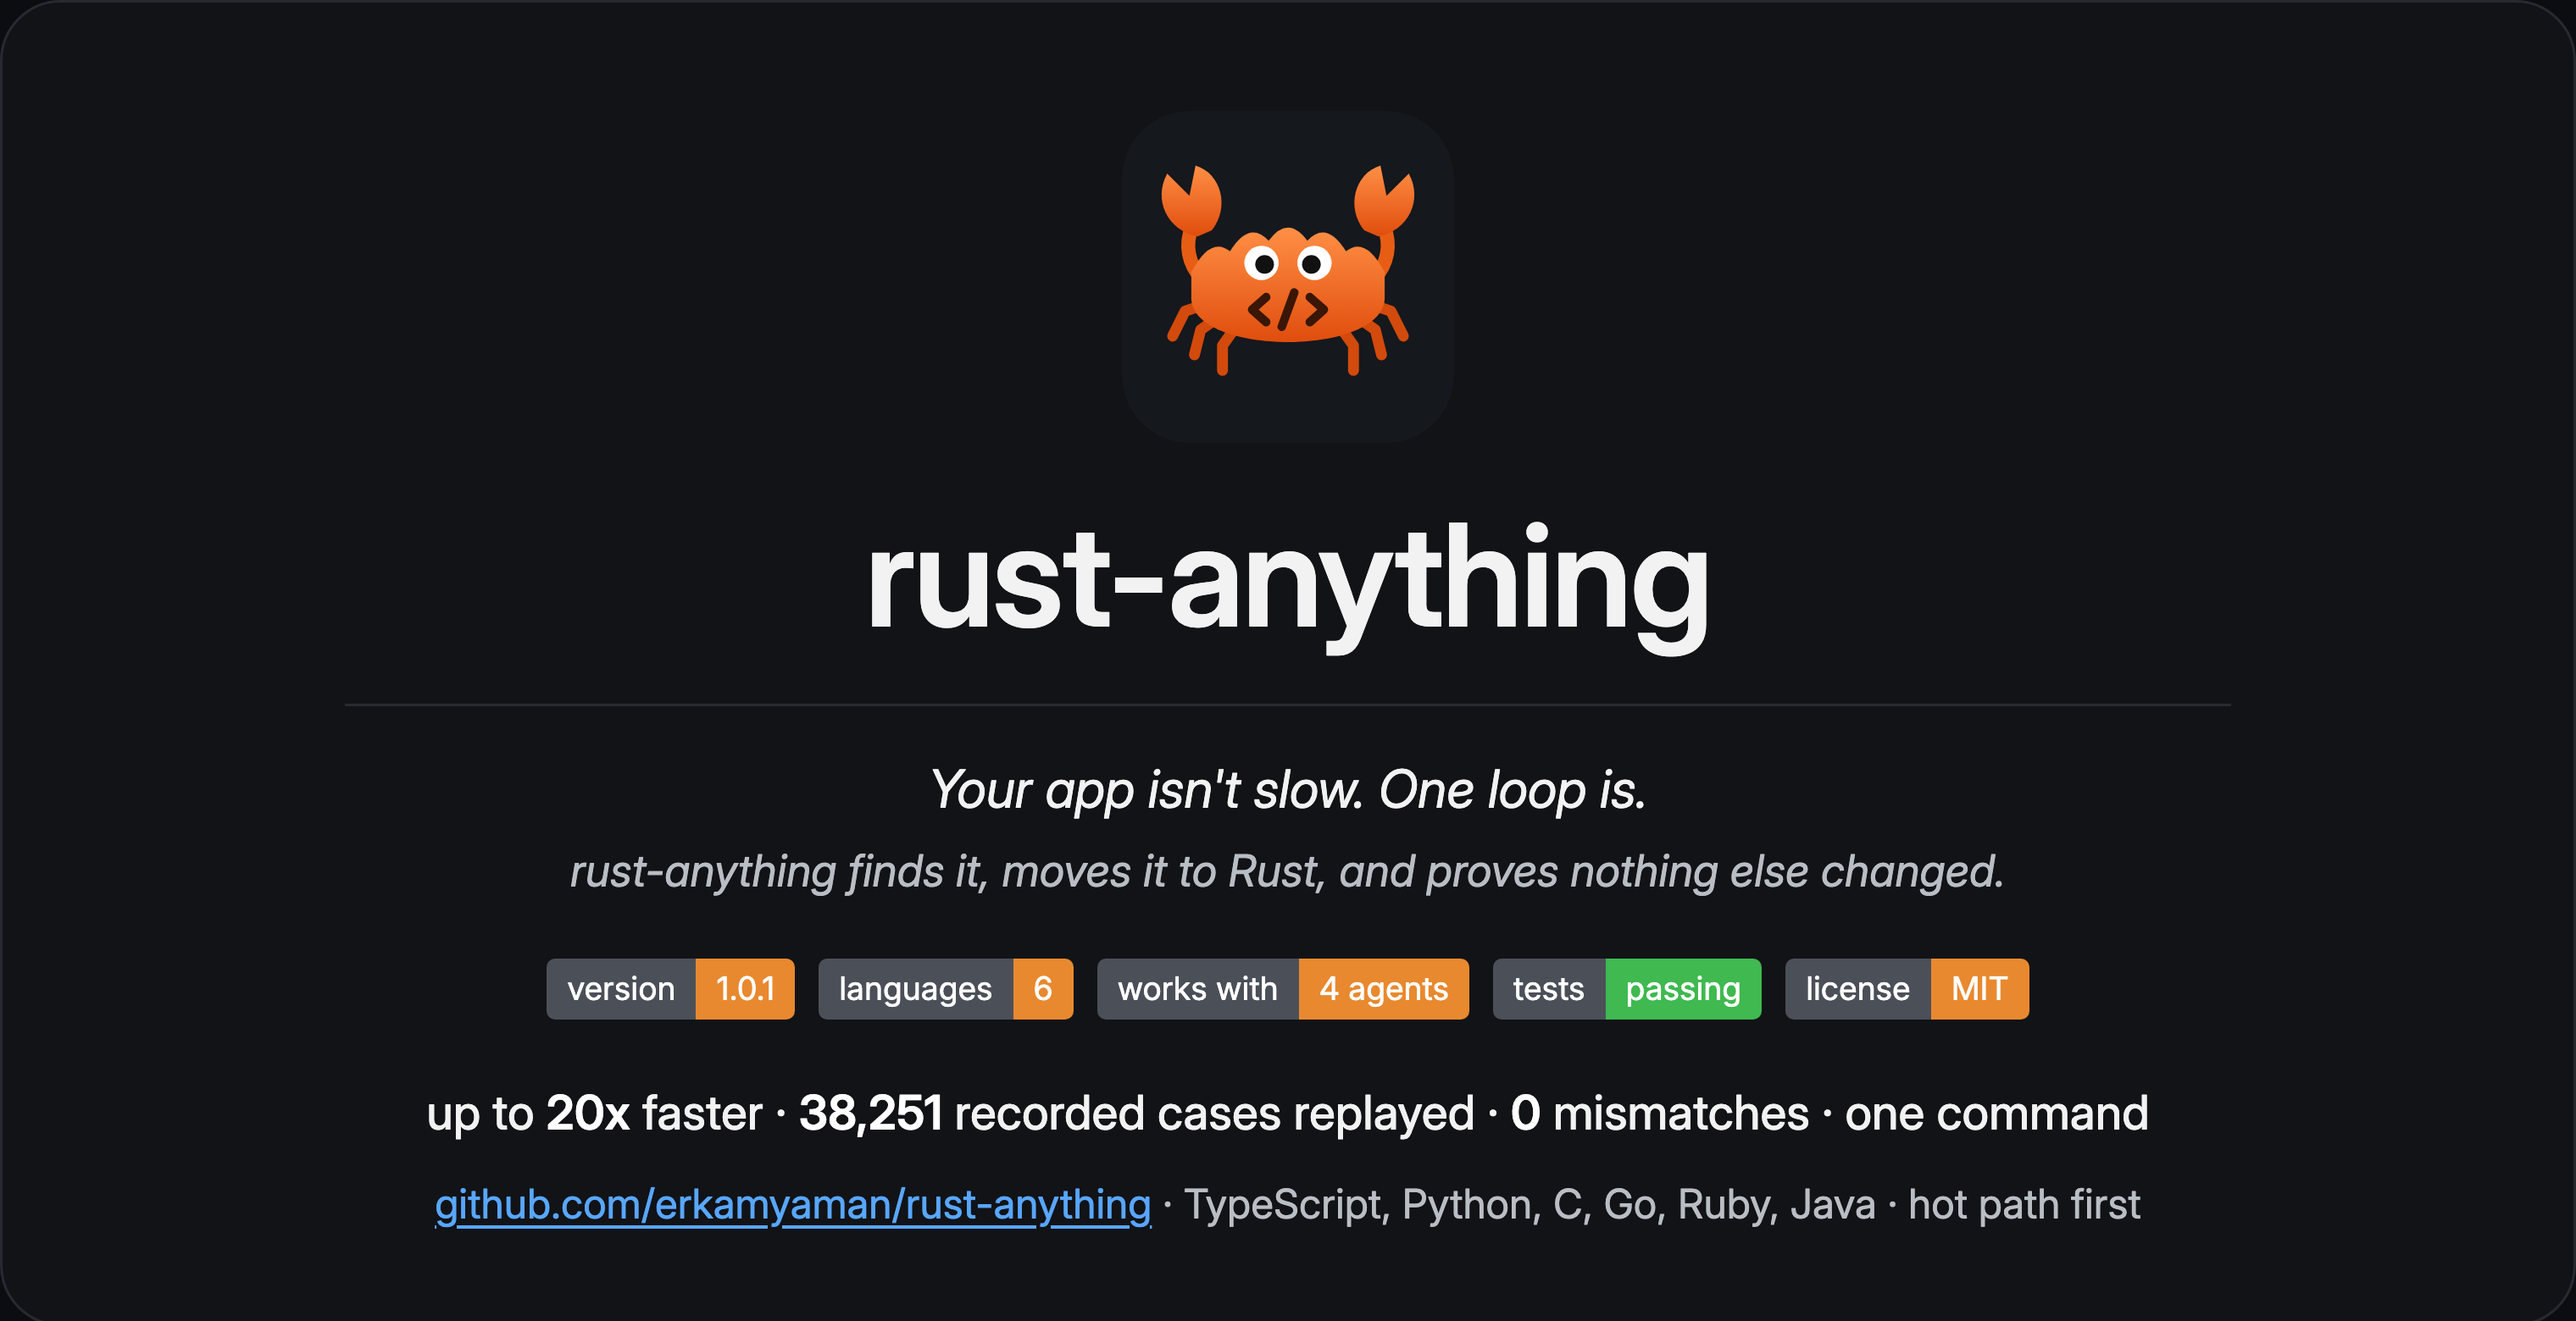
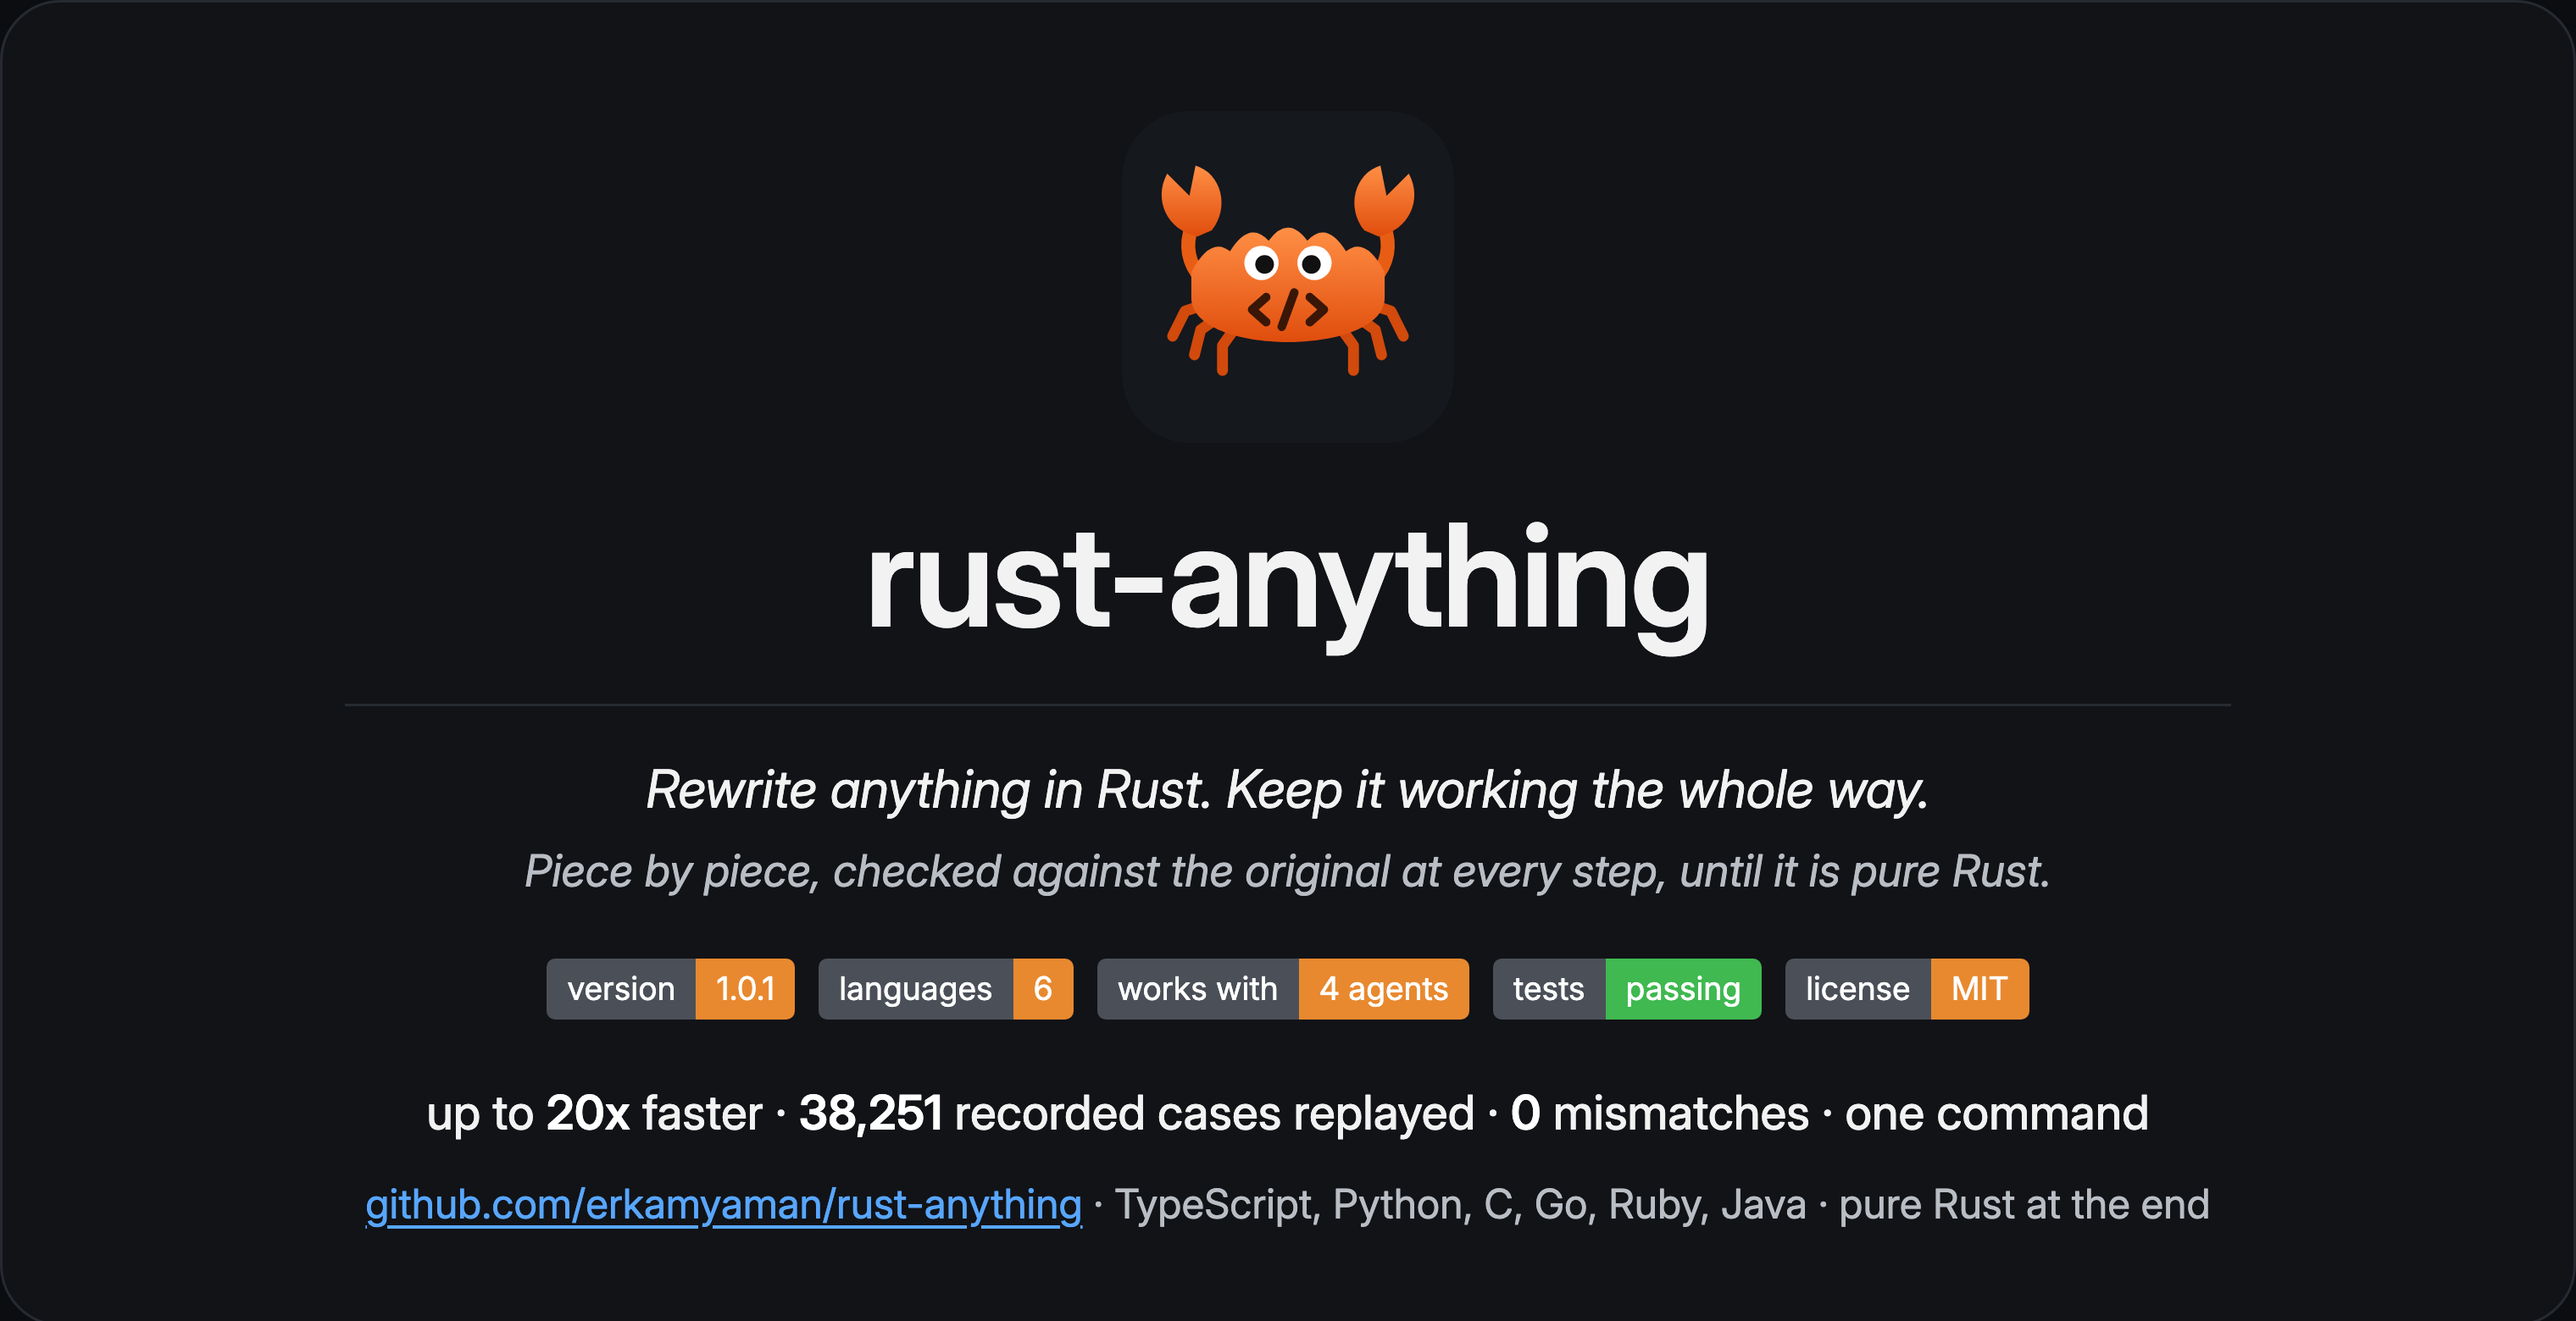
docs: new pitch: rewrite your app in Rust, one piece at a time
Hero image, Cargo.toml, the Claude Code plugin and the npm package describe rust-anything as a whole-app port to Rust, with fast hot paths as the smaller use.

Changed region(s): [[0.125, 0.8923, 0.875, 0.9231], [0.1875, 0.6462, 0.8125, 0.6769], [0.25, 0.5846, 0.75, 0.6154]]

diff --git a/docs/assets/hero.html b/docs/assets/hero.html
@@ -60,8 +60,8 @@
     </div>
     <h1>rust-anything</h1>
     <hr>
-    <p class="tagline">Your app isn't slow. One loop is.</p>
-    <p class="sub">rust-anything finds it, moves it to Rust, and proves nothing else changed.</p>
+    <p class="tagline">Rewrite anything in Rust. Keep it working the whole way.</p>
+    <p class="sub">Piece by piece, checked against the original at every step, until it is pure Rust.</p>
     <div class="badges">
       <div class="badge"><span class="k">version</span><span class="v">1.0.1</span></div>
       <div class="badge"><span class="k">languages</span><span class="v">6</span></div>
@@ -70,7 +70,7 @@
       <div class="badge"><span class="k">license</span><span class="v">MIT</span></div>
     </div>
     <p class="stats">up to <b>20x</b> faster · <b>38,251</b> recorded cases replayed · <b>0</b> mismatches · one command</p>
-    <p class="link"><a>github.com/erkamyaman/rust-anything</a> · TypeScript, Python, C, Go, Ruby, Java · hot path first</p>
+    <p class="link"><a>github.com/erkamyaman/rust-anything</a> · TypeScript, Python, C, Go, Ruby, Java · pure Rust at the end</p>
   </div>
 </body>
 </html>
